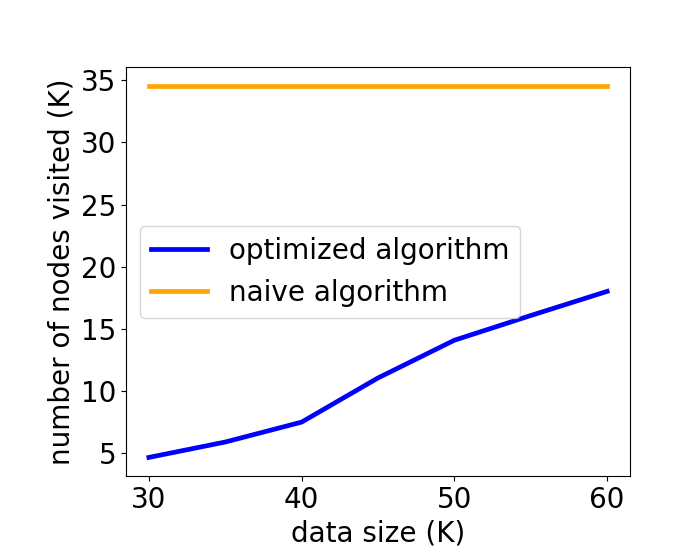
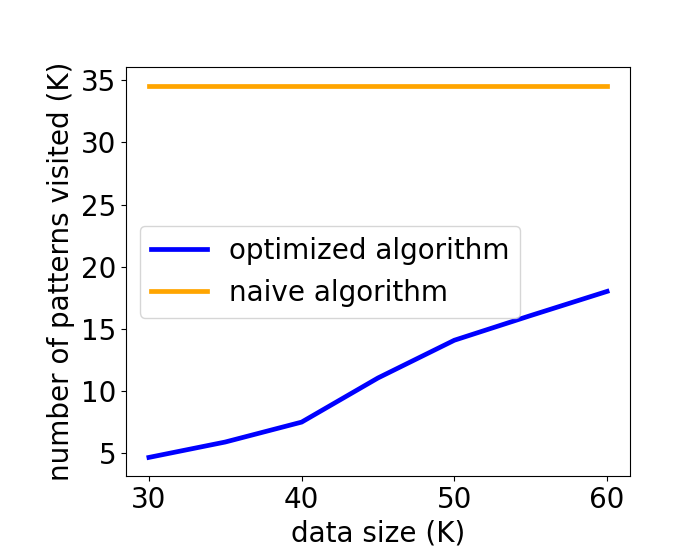
low acc, credit card, datasize

Changed region(s): [[0.06, 0.0911, 0.12, 0.8804]]

diff --git a/Coding/Experiments/AccuracyFairness/CreditcardData/data_size_0_20210201.py b/Coding/Experiments/AccuracyFairness/CreditcardData/data_size_0_20210201.py
@@ -14,7 +14,7 @@ x axis: data sizes: 100, 500, 1000, 2000, 3000, 4000, 5000, 6000
 
 Other parameters:
 selected_attributes = ['sexC', 'ageC', 'raceC', 'MC', 'priors_count_C', 'c_charge_degree']
-threshold of cardinality Thc = 30
+size threshold Thc = 30
 threshold of minority group accuracy: overall acc - 20
 
 """
@@ -177,7 +177,7 @@ plt.plot(data_sizes, num_patterns_checked2, label="naive algorithm", color='oran
 plt.xlabel('data size (K)')
 plt.xticks([10000, 20000, 30000, 40000, 50000, 60000])
 ax.xaxis.set_major_formatter(FuncFormatter(thousands_formatter))
-plt.ylabel('number of nodes visited (K)')
+plt.ylabel('number of patterns visited (K)')
 ax.yaxis.set_major_formatter(FuncFormatter(thousands_formatter))
 plt.subplots_adjust(bottom=0.15, left=0.18)
 plt.legend()

diff --git a/Coding/Experiments/AccuracyFairness/CreditcardData/data_size_1_20210629.py b/Coding/Experiments/AccuracyFairness/CreditcardData/data_size_1_20210629.py
@@ -14,7 +14,7 @@ x axis: data sizes: 100, 500, 1000, 2000, 3000, 4000, 5000, 6000
 
 Other parameters:
 selected_attributes = ['sexC', 'ageC', 'raceC', 'MC', 'priors_count_C', 'c_charge_degree']
-threshold of cardinality Thc = 30
+size threshold Thc = 30
 threshold of minority group accuracy: overall acc - 20
 
 """
@@ -182,7 +182,7 @@ plt.plot(data_sizes, num_patterns_checked2, label="naive algorithm", color='oran
 plt.xlabel('data size (K)')
 plt.xticks([30000, 40000, 50000, 60000])
 ax.xaxis.set_major_formatter(FuncFormatter(thousands_formatter))
-plt.ylabel('number of nodes visited (K)')
+plt.ylabel('number of patterns visited (K)')
 ax.yaxis.set_major_formatter(FuncFormatter(thousands_formatter))
 plt.subplots_adjust(bottom=0.15, left=0.18)
 plt.legend()
